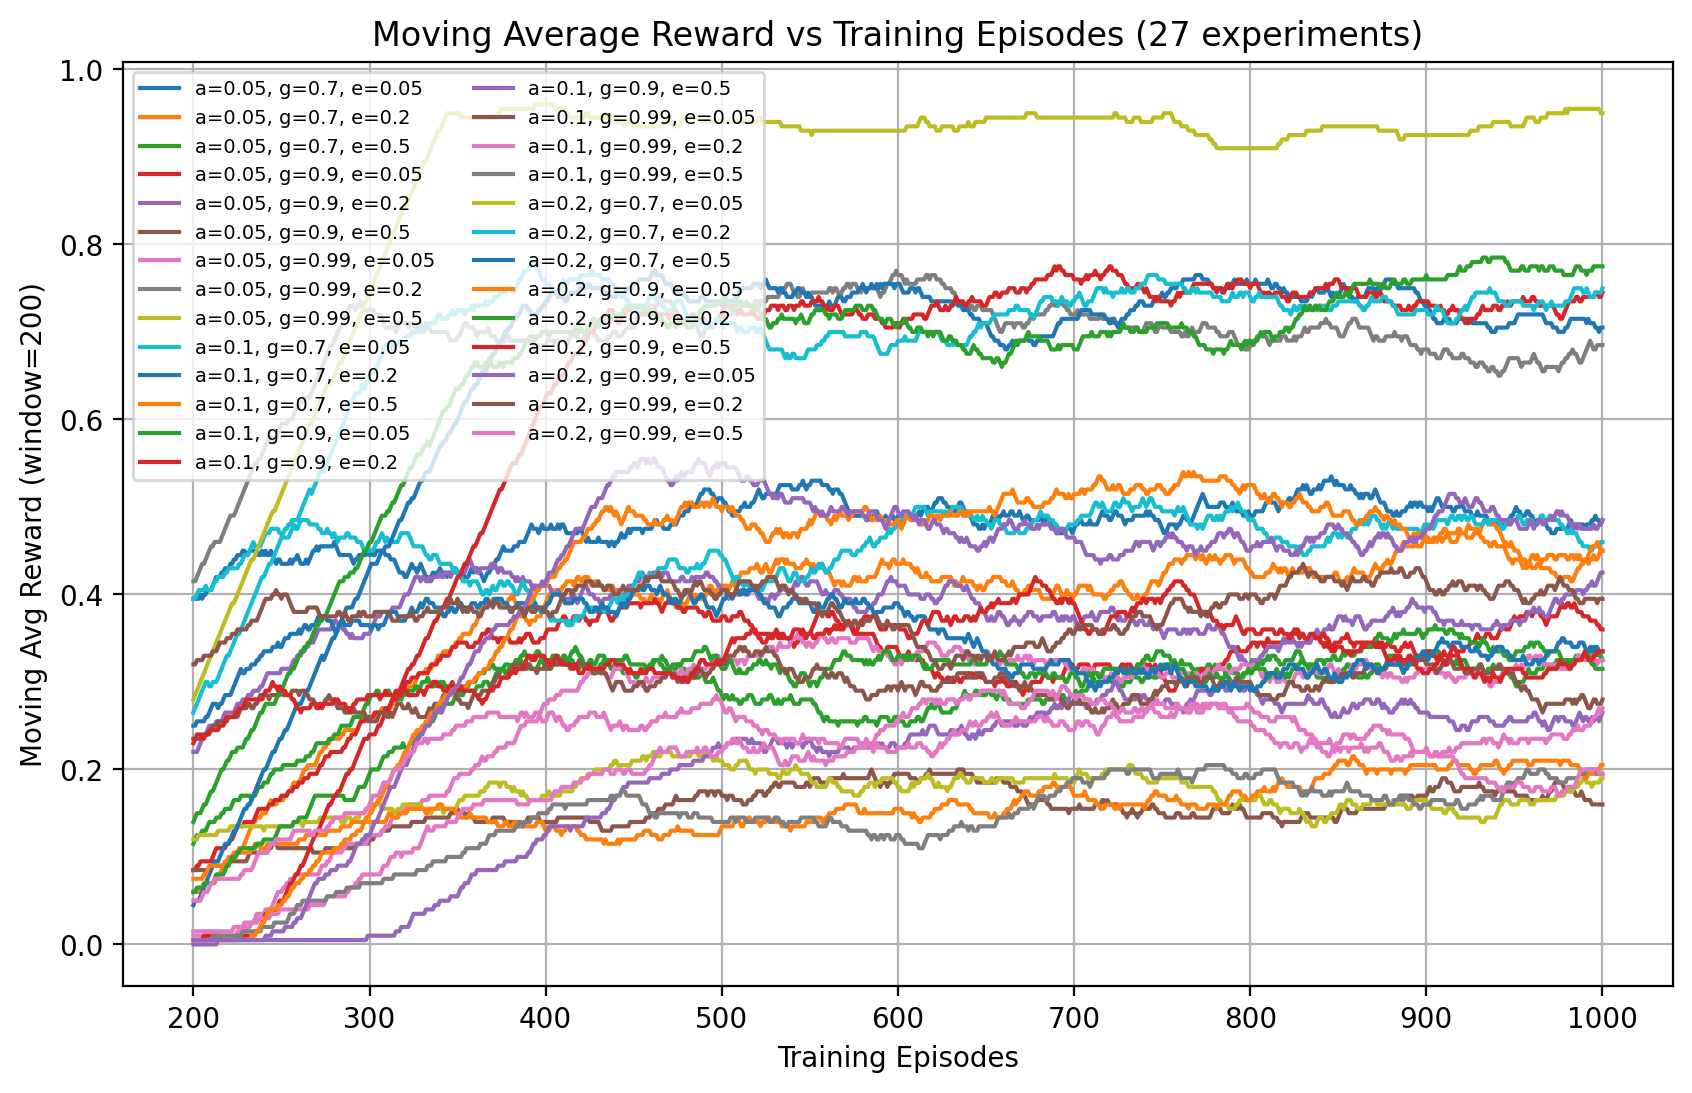
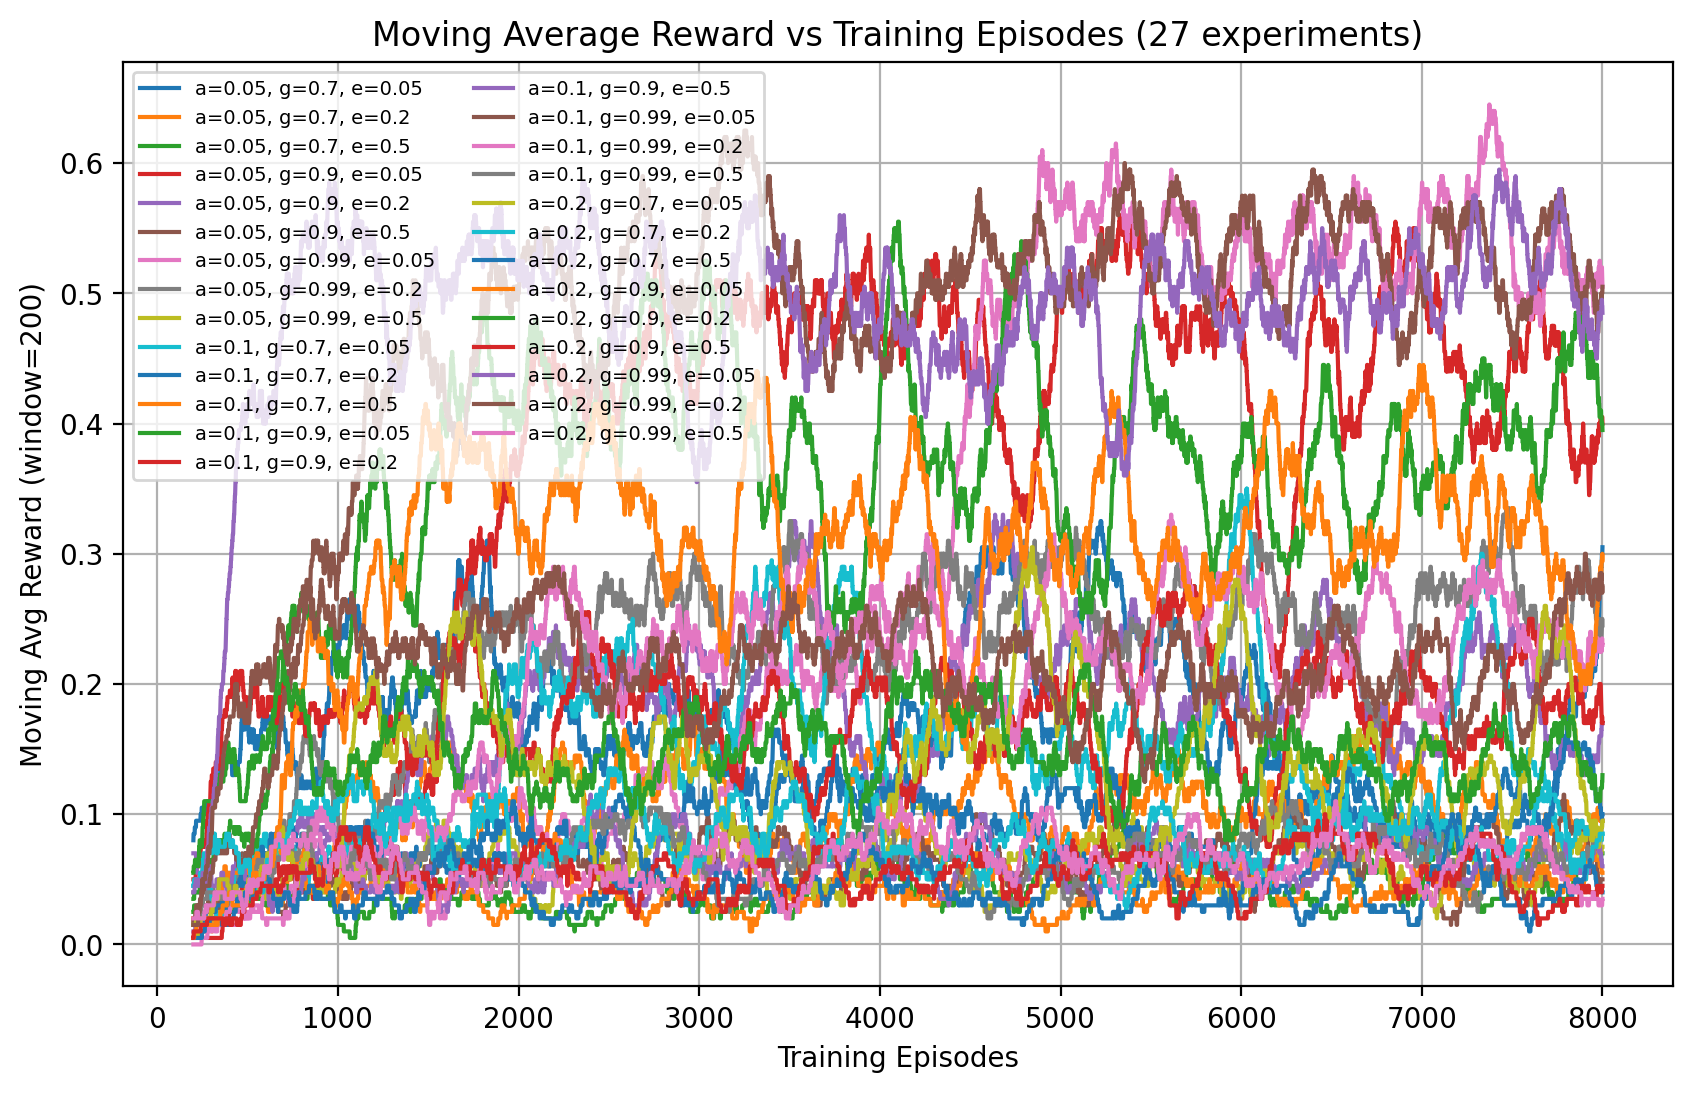
new experiment with higher epochs

diff --git a/frozen_lake_q_learning.py b/frozen_lake_q_learning.py
@@ -19,12 +19,12 @@ MAP_DESC = [
         "HFFG"
     ]
 
-TRAIN_EPISODES = 1000         # adjust as needed
+TRAIN_EPISODES = 8000         # adjust as needed
 EVAL_EPISODES = 100
 EVAL_INTERVAL = 10            # fewer eval points = faster
 MOVING_AVG_WINDOW = 200
 
-SLIPPERY = False
+SLIPPERY = True
 SEED = 0
 
 def evaluate_greedy(env, q_table, n_episodes=100):
@@ -89,7 +89,7 @@ def plot_policy_arrows(Q, lake_map, title, save_path):
     plt.show()
 
 def run_one(alpha, gamma, epsilon):
-    env = gym.make("FrozenLake-v1",map_name="4x4", desc=MAP_DESC, is_slippery=SLIPPERY)
+    env = gym.make("FrozenLake-v1",map_name="4x4", desc=MAP_DESC, is_slippery=SLIPPERY, )
     env.reset(seed=SEED)
     np.random.seed(SEED)
 

diff --git a/frozen_lake_random_policy.py b/frozen_lake_random_policy.py
@@ -20,7 +20,7 @@ explorer = EpsilonGreedy(1)
 
 
 def run(num_epochs) : 
-    env = gym.make("FrozenLake-v1", render_mode= RENDER_MODE)
+    env = gym.make("FrozenLake-v1", render_mode= RENDER_MODE,is_slippery=True)
     
     success = 0
     
